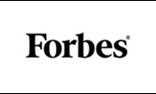
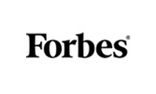
Styles speakers Section and removes black border of images in credability-section

Changed region(s): [[0.0, 0.9787, 1.0, 1.0], [0.0, 0.0, 1.0, 0.0213]]

diff --git a/index.html b/index.html
@@ -60,16 +60,16 @@
                 <div class="sm-subscribe">
                     <div class="podcast">
                     <h3>Push button influence podcast</h3>
-                        <div ><a href="https://www.apple.com/itunes/download/"><img src="images/itunes.jpg" alt="Subscribe on iTunes" /></a></div>
-                        <div><a href="http://www.stitcher.com/podcast/push-button-influence-broadcast-your-brilliance-with-alex-mandossian/push-button-influence-broadcast-your-brilliance?refid=stpr">
+                        <div class="btn-itunes"><a href="https://www.apple.com/itunes/download/"><img src="images/itunes.jpg" alt="Subscribe on iTunes" /></a></div>
+                        <div class="btn-stitcher"><a href="http://www.stitcher.com/podcast/push-button-influence-broadcast-your-brilliance-with-alex-mandossian/push-button-influence-broadcast-your-brilliance?refid=stpr">
                             <img src="images/andriod-1.jpg" alt="Subscribe on Stitcher" /></a></div>
                     </div>
                     <div class="offer">
                         <p>Our top-rated show teaches you how to ...</p>
                         <ul>
-                            <li>Effectivly laverage the power of new medis</li>
+                            <li>Effectively laverage the power of new medis</li>
                             <li>Master the skills needed to become new media influencer</li>
-                            <li>Move people to take positive action at the touch of the button</li>
+                            <li>Move people to take positive action at the touch of a&nbsp;button</li>
                         </ul>
                     </div>
                 </div>

diff --git a/style.css b/style.css
@@ -20,7 +20,7 @@ nav.fixed {
     left: 0;
     height: 80px;
     position: fixed;
-    padding: 10px 70px;
+    padding: 10px 110px;
     display: inline-flex;
     z-index: 999;
     background-color: white;
@@ -33,7 +33,7 @@ nav.fixed {
 }
 
 ul.nav-list {
-    margin-left: 10px;
+    margin-left: 30px;
     padding: 20px 30px;
     display: flex;
     flex-flow: row wrap;
@@ -103,7 +103,7 @@ width: 323px;
 }
 
 div.credibility {
-    padding: 0 70px;
+    padding: 0 110px;
     width: 100%;
     height: 80px;
     background-color: white;
@@ -133,18 +133,78 @@ div.media-list {
 }
 
 div.sm-subscribe {
+    color: white;
     background-color: #1eb6e7;
     width: 100%;
     height: 250px;
-    padding: 0 70px;
+    padding: 0 110px;
 }
 
 div.podcast {
 width: 50%;
     float: left;
+    margin: 30px 0;
 }
 
 div.offer {
     width: 50%;
     float: right;
+    padding: 30px;
 }
+
+.offer ul {
+    margin-top: 12px;
+}
+
+div.btn-itunes {
+    float: left;
+    margin-top: 30px;
+    margin-right: 20px;
+
+}
+
+.podcast h3 {
+    font-size: 30px;
+    font-weight: 400;
+}
+
+div.btn-stitcher {
+    float: left;
+    margin-top: 30px;
+    margin-right: 40px;
+}
+
+.speakers h2 {
+    font-size: 35px;
+    text-align: center;
+    margin-top: 40px;
+}
+
+div.episode-list {
+    display: flex;
+    justify-content: center;
+    flex-flow: row wrap;
+}
+
+div.person {
+    width: 600px;
+    padding: 5px;
+    margin-top: 60px;
+}
+
+div.photo {
+    padding-top: 10px;
+    width: 200px;
+    float: left;
+}
+
+.about-person h4 {
+
+}
+
+div.about-person {
+    padding: 0 20px;
+    float: right;
+    width: 358px;
+}
+
